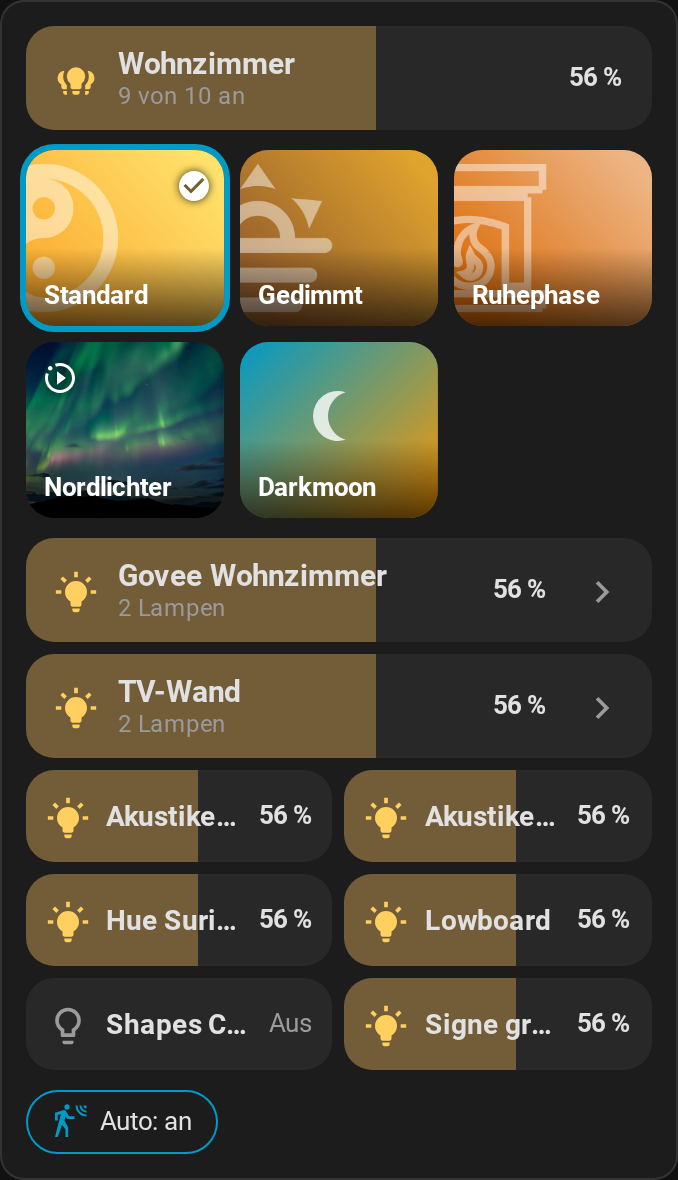
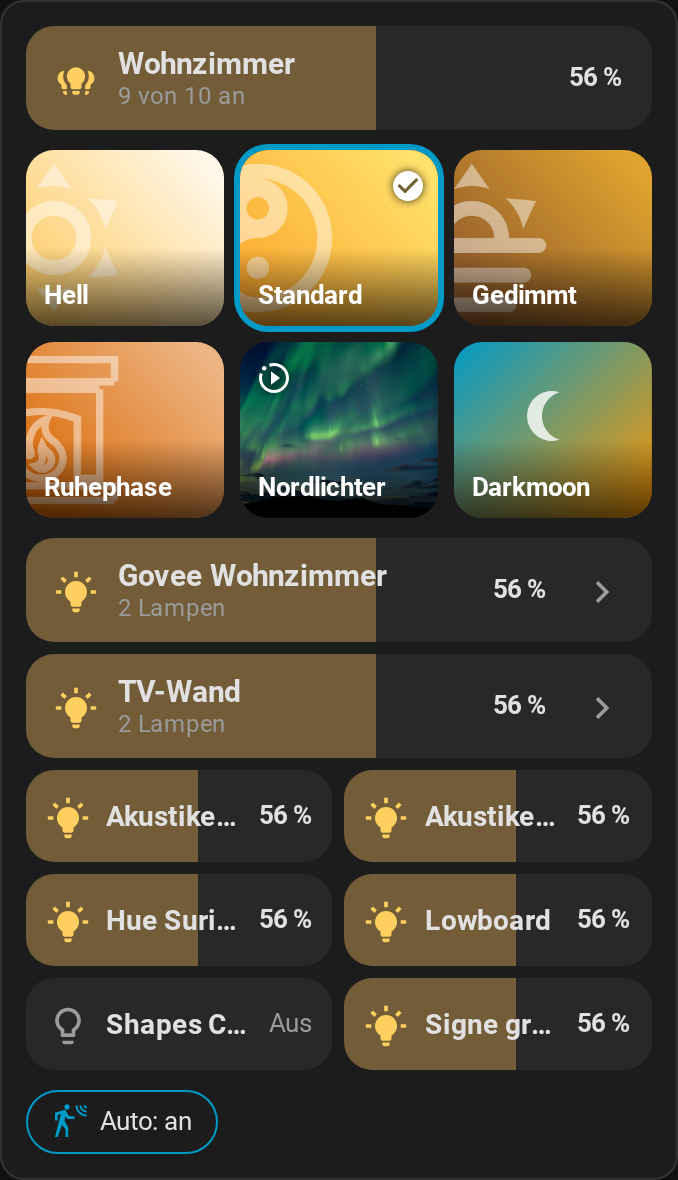
Add keep_groups to control light groups as one light
- apply_preset, start_dynamic_scene and saved scenes accept keep_groups:
  the listed groups replace their members and are controlled as one light
- Stopping dynamic scenes for targets also matches groups by their members
- Docs and room card screenshot updated

Changed region(s): [[0.031, 0.122, 0.9602, 0.4576]]

diff --git a/custom_components/scene_presets/__init__.py b/custom_components/scene_presets/__init__.py
@@ -1,7 +1,7 @@
 # Modified by andrejem (2026): start_dynamic_scene accepts optional per-light
 # interval/transition ranges (interval_min/max, transition_min/max).
 # Saved scenes: save/delete/activate services and a scene platform.
-# Optional exclude list for apply_preset, start_dynamic_scene and saved scenes.
+# Optional exclude list and keep_groups for apply_preset, start_dynamic_scene and saved scenes.
 
 import voluptuous as vol
 import homeassistant.helpers.config_validation as cv
@@ -13,7 +13,7 @@ from .const import *
 from .dynamic_scenes import DynamicScene, DynamicSceneManager
 from .presets import apply_preset
 from .view import async_setup_view, async_remove_view
-from .util import ensure_list, resolve_targets, filter_targets
+from .util import ensure_list, resolve_targets, filter_targets, resolve_entity_ids
 from .websocket_api import async_setup_websocket_api
 from .saved_scenes import SavedSceneStore, build_service_call
 
@@ -29,6 +29,7 @@ APPLY_PRESET_SCHEMA = vol.Schema({
     vol.Optional(ATTR_SHUFFLE, default=False): cv.boolean,
     vol.Optional(ATTR_SMART_SHUFFLE, default=False): cv.boolean,
     vol.Optional(ATTR_EXCLUDE): cv.entity_ids,
+    vol.Optional(ATTR_KEEP_GROUPS): cv.entity_ids,
 })
 
 START_DYNAMIC_SCENE_SCHEMA = vol.Schema({
@@ -42,6 +43,7 @@ START_DYNAMIC_SCENE_SCHEMA = vol.Schema({
     vol.Optional(ATTR_TRANSITION_MIN): vol.All(vol.Coerce(float), vol.Range(min=0)),
     vol.Optional(ATTR_TRANSITION_MAX): vol.All(vol.Coerce(float), vol.Range(min=0)),
     vol.Optional(ATTR_EXCLUDE): cv.entity_ids,
+    vol.Optional(ATTR_KEEP_GROUPS): cv.entity_ids,
 })
 
 
@@ -72,6 +74,7 @@ SAVE_SCENE_SCHEMA = vol.Schema({
     vol.Optional(ATTR_TRANSITION_MIN): vol.All(vol.Coerce(float), vol.Range(min=0)),
     vol.Optional(ATTR_TRANSITION_MAX): vol.All(vol.Coerce(float), vol.Range(min=0)),
     vol.Optional(ATTR_EXCLUDE): cv.entity_ids,
+    vol.Optional(ATTR_KEEP_GROUPS): cv.entity_ids,
 })
 
 SAVED_SCENE_ID_SCHEMA = vol.Schema({
@@ -118,6 +121,7 @@ async def async_setup(hass, config):
             resolve_targets(hass, entity_ids, device_ids, area_ids, floor_ids, label_ids),
             entity_ids,
             call.data.get(ATTR_EXCLUDE),
+            call.data.get(ATTR_KEEP_GROUPS),
         )
 
         await apply_preset(
@@ -154,6 +158,7 @@ async def async_setup(hass, config):
             resolve_targets(hass, entity_ids, device_ids, area_ids, floor_ids, label_ids),
             entity_ids,
             call.data.get(ATTR_EXCLUDE),
+            call.data.get(ATTR_KEEP_GROUPS),
         )
 
         parameters = {
@@ -192,10 +197,19 @@ async def async_setup(hass, config):
             resolve_targets(hass, entity_ids, device_ids, area_ids, floor_ids, label_ids),
             entity_ids,
             call.data.get(ATTR_EXCLUDE),
+            call.data.get(ATTR_KEEP_GROUPS),
         )
 
-        for light_entity_id in light_entity_ids:
-            dynamic_scene_manager.stop_all_for_entity_id(light_entity_id)
+        # A dynamic scene may control a group as one light, so compare on member level too
+        target_ids = set(light_entity_ids)
+        for target_id in light_entity_ids:
+            target_ids.update(resolve_entity_ids(hass, target_id))
+        for scene in list(dynamic_scene_manager.get_all()):
+            scene_ids = set(scene.parameters.get("light_entity_ids", []))
+            for scene_light_id in list(scene_ids):
+                scene_ids.update(resolve_entity_ids(hass, scene_light_id))
+            if scene_ids & target_ids:
+                dynamic_scene_manager.delete_by_id(scene.id)
 
         return True
 

diff --git a/custom_components/scene_presets/util.py b/custom_components/scene_presets/util.py
@@ -1,4 +1,5 @@
-# Modified by andrejem (2026): filter_targets() for the exclude list and segment lights.
+# Modified by andrejem (2026): filter_targets() for the exclude list, groups kept as one light
+# and segment lights.
 
 import re
 from homeassistant.helpers import entity_registry, device_registry, area_registry
@@ -130,11 +131,13 @@ def get_config_entry(hass, entity_id):
 SEGMENT_SUFFIX = re.compile(r"_segment_\d+$")
 
 
-def filter_targets(hass, light_entity_ids, explicit_entity_ids, exclude):
+def filter_targets(hass, light_entity_ids, explicit_entity_ids, exclude, keep_groups=None):
     """Remove excluded lights (groups are resolved to their members) and segment lights.
 
     Segment lights (e.g. Zigbee2MQTT/Govee ``light.x_segment_001``) are only kept when they were
     targeted explicitly; through an area, device or label they would fight with the main light.
+
+    Groups in ``keep_groups`` are controlled as one light: their members are replaced by the group.
     """
     excluded = set()
     for entity_id in ensure_list(exclude):
@@ -143,8 +146,16 @@ def filter_targets(hass, light_entity_ids, explicit_entity_ids, exclude):
     explicit = set()
     for entity_id in ensure_list(explicit_entity_ids):
         explicit.update(resolve_entity_ids(hass, entity_id))
-    return [
+    result = [
         entity_id for entity_id in light_entity_ids
         if entity_id not in excluded
         and (entity_id in explicit or not SEGMENT_SUFFIX.search(entity_id))
     ]
+    for group_id in ensure_list(keep_groups):
+        if group_id in excluded or hass.states.get(group_id) is None:
+            continue
+        members = set(resolve_entity_ids(hass, group_id))
+        result = [entity_id for entity_id in result if entity_id not in members]
+        if group_id not in result:
+            result.append(group_id)
+    return result

diff --git a/custom_components/scene_presets/const.py b/custom_components/scene_presets/const.py
@@ -39,3 +39,4 @@ SERVICE_ACTIVATE_SAVED_SCENE = "activate_saved_scene"
 ATTR_NAME = "name"
 ATTR_DYNAMIC = "dynamic"
 ATTR_EXCLUDE = "exclude"
+ATTR_KEEP_GROUPS = "keep_groups"

diff --git a/custom_components/scene_presets/saved_scenes.py b/custom_components/scene_presets/saved_scenes.py
@@ -28,6 +28,7 @@ SCENE_SETTING_KEYS = (
     "transition_min",
     "transition_max",
     "exclude",
+    "keep_groups",
 )
 
 

diff --git a/docs/Saved scenes.md b/docs/Saved scenes.md
@@ -20,7 +20,7 @@ activates the saved scene. Renaming a saved scene keeps its entity ID.
 
 | Service                              | Fields                                                                                                  |
 |--------------------------------------|---------------------------------------------------------------------------------------------------------|
-| `scene_presets.save_scene`           | `name`, `preset_id`, `targets`, optional `id` (overwrite), `dynamic`, `exclude` and all fields of `apply_preset` / `start_dynamic_scene` |
+| `scene_presets.save_scene`           | `name`, `preset_id`, `targets`, optional `id` (overwrite), `dynamic`, `exclude`, `keep_groups` and all fields of `apply_preset` / `start_dynamic_scene` |
 | `scene_presets.activate_saved_scene` | `id`, optional `dynamic` (override the saved mode)                                                      |
 | `scene_presets.delete_saved_scene`   | `id` (also removes the scene entity)                                                                    |
 
@@ -40,8 +40,12 @@ automatically, otherwise they would fight with their main light. Light groups of
 resolved to their members as before. Lights and groups listed explicitly in `entity_id` work as
 before, a scene with a single light is fine.
 
-New lights in the area are part of the scene automatically. `exclude` also works for
-`apply_preset` and `start_dynamic_scene`.
+With `keep_groups`, light groups are controlled as **one light** instead of light by light: all
+members get the same color, and in a dynamic scene the group changes as a whole. Use it for
+fixtures that consist of several lights, e.g. two strips left and right of a TV.
+
+New lights in the area are part of the scene automatically. `exclude` and `keep_groups` also work
+for `apply_preset` and `start_dynamic_scene`.
 
 ```yaml
 action: scene_presets.save_scene
@@ -53,6 +57,8 @@ data:
   exclude:
     - light.tv_ambilight
     - light.nanoleaf_shapes
+  keep_groups:
+    - light.tv_wall
 ```
 
 ## Example

diff --git a/docs/Room card.md b/docs/Room card.md
@@ -32,7 +32,7 @@ area: arbeitszimmer
 | `light_columns` | 2     | Columns of the single light rows (groups always use the full width)        |
 | `scenes`      | auto    | Explicit list and order of scene entities instead of all scenes of the area |
 | `lights`      | auto    | Explicit list of light entities instead of all lights of the area          |
-| `hide`        | –       | Entities (lights or scenes) not to show                                     |
+| `hide`        | –       | Entities (lights or scenes) not to show, e.g. motion-only scenes            |
 | `master`      | auto    | Light (group) used for the room slider                                      |
 | `structural`  | –       | Additional light groups that are not shown as rows (only their members)     |
 | `show_lights` | true    | Show the light rows                                                         |

diff --git a/Readme.md b/Readme.md
@@ -97,7 +97,8 @@ switch. It is built from the area automatically and loaded by the integration, n
 Details: [docs/Room card.md](docs/Room%20card.md)
 
 **Exclude** – Scenes and services can target a whole area and leave single lights out with
-`exclude` (a light group excludes its members). Segment lights of Zigbee2MQTT/Govee strips are
+`exclude` (a light group excludes its members). With `keep_groups`, a light group is controlled
+as one light (same color for all members). Segment lights of Zigbee2MQTT/Govee strips are
 skipped automatically for area targets. Details: [docs/Saved scenes.md](docs/Saved%20scenes.md)
 
 **Home Assistant 2026.x** – Dialog buttons are plain buttons, because `mwc-button` is no longer

diff --git a/ROADMAP.md b/ROADMAP.md
@@ -38,6 +38,8 @@
       skipped for area/device/floor/label targets
 - [x] Room card: groups full width, single lights and expanded members two per line
       (`light_columns`), explicit scene order (`scenes`)
+- [x] `keep_groups`: control light groups as one light (also in dynamic scenes)
+- [x] Stopping dynamic scenes also matches groups by their members
 - [x] Screenshot of the room card in the README
 - [x] Tested in Home Assistant (area + exclude resolution, dashboard screenshots)
 
